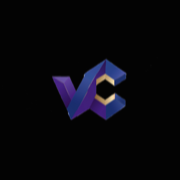
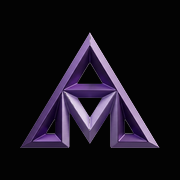
Rebrand to AutoMesh Works
Name, descriptions and metadata move from the personal wordmark to the
company; Karman Singh Talwar stays on as the founder attribution in the
About card. New AM logo across navbar, footer, about and the favicons.
Contact details updated to the Sunforest Drive address and the two
current numbers.

Design, layout, type, colours and behaviour are untouched — the only
style change is the logo's intrinsic width/height hints, which follow
the new mark's aspect ratio so it still reserves the right space.

Changed region(s): [[0.1111, 0.1667, 0.8889, 0.8333]]

diff --git a/src/app/layout.tsx b/src/app/layout.tsx
@@ -12,23 +12,23 @@ const plusJakartaSans = Plus_Jakarta_Sans({
 });
 
 export const metadata: Metadata = {
-  title: "Karman Singh Talwar | Software · AI · Systems",
+  title: "AutoMesh Works | Software · AI · Systems",
   description:
-    "We build the digital systems behind modern businesses — software, AI, mobile apps, web applications and cloud infrastructure, designed and connected around how your business actually works.",
+    "AutoMesh Works builds the digital systems behind modern businesses — custom software, AI and automation, AI agents, web and mobile applications and cloud infrastructure, designed and connected around how your business actually works.",
   keywords:
-    "software development, AI systems, AI agents, automation, web applications, mobile apps, cloud infrastructure, custom software, full stack development, Next.js, founder-led studio, Karman Singh Talwar",
+    "AutoMesh Works, software development, AI systems, AI agents, automation, web applications, mobile apps, cloud infrastructure, custom software, full stack development, Next.js, founder-led studio, Karman Singh Talwar",
   openGraph: {
-    title: "Karman Singh Talwar | Software · AI · Systems",
+    title: "AutoMesh Works | Software · AI · Systems",
     description:
-      "Software, AI, mobile apps, web applications and cloud infrastructure — designed, built and connected around how your business actually works.",
+      "AutoMesh Works — software, AI, mobile apps, web applications and cloud infrastructure, designed, built and connected around how your business actually works.",
     type: "website",
-    siteName: "Karman Singh Talwar",
+    siteName: "AutoMesh Works",
   },
   twitter: {
     card: "summary_large_image",
-    title: "Karman Singh Talwar | Software · AI · Systems",
+    title: "AutoMesh Works | Software · AI · Systems",
     description:
-      "We build the digital systems behind modern businesses. Founder-led. Transparent scope and pricing.",
+      "AutoMesh Works builds the digital systems behind modern businesses. Founder-led. Transparent scope and pricing.",
   },
 };
 

diff --git a/src/components/About.tsx b/src/components/About.tsx
@@ -68,7 +68,10 @@ export default function About() {
                     />
                     <div>
                       <h3 className="text-base font-black text-foreground leading-tight">{CONTACT.name}</h3>
-                      <span className="text-[9px] font-mono font-bold tracking-[0.2em] uppercase text-accent-purple">
+                      <span className="block text-[9px] font-mono font-bold tracking-[0.2em] uppercase text-accent-purple">
+                        {`By ${CONTACT.founder}`}
+                      </span>
+                      <span className="block text-[9px] font-mono font-bold tracking-[0.2em] uppercase text-luxury-muted/70 mt-0.5">
                         Founder · Engineer
                       </span>
                     </div>
@@ -101,7 +104,8 @@ export default function About() {
           <div className="lg:col-span-7">
             <Reveal variant="right">
               <p className="text-luxury-muted text-sm sm:text-base leading-relaxed mb-4">
-                A founder-led studio, run by <span className="text-foreground font-semibold">{CONTACT.name}</span>.
+                <span className="text-foreground font-semibold">{CONTACT.name}</span> is a
+                founder-led studio, run by <span className="text-foreground font-semibold">{CONTACT.founder}</span>.
                 Not a chain of handovers — the person who understands the problem is the one who
                 designs the system and writes the code that runs it.
               </p>

diff --git a/src/components/Footer.tsx b/src/components/Footer.tsx
@@ -46,7 +46,7 @@ export default function Footer() {
                 src="/logo-mark.png"
                 alt=""
                 aria-hidden="true"
-                width={96}
+                width={39}
                 height={32}
                 className="h-8 w-auto object-contain theme-logo group-hover:scale-105 transition-transform duration-300"
               />
@@ -61,8 +61,9 @@ export default function Footer() {
             </div>
 
             <p className="text-luxury-muted/70 text-xs max-w-xs leading-relaxed mt-2 font-medium">
-              We build the digital systems behind modern businesses — software, AI, mobile,
-              web and cloud, designed around how the business actually works.
+              AutoMesh Works builds the digital systems behind modern businesses — software,
+              AI and automation, mobile, web and cloud, designed around how the business
+              actually works.
             </p>
 
             <div className="flex flex-col gap-1.5 mt-2 text-xs text-luxury-muted/70 font-mono">
@@ -70,6 +71,7 @@ export default function Footer() {
                 {CONTACT.email}
               </a>
               <span>{CONTACT.phone}</span>
+              <span>{CONTACT.altPhone}</span>
               <span>{CONTACT.location}</span>
             </div>
           </div>

diff --git a/src/components/Header.tsx b/src/components/Header.tsx
@@ -66,14 +66,14 @@ export default function Header() {
         >
           <img
             src="/logo-mark.png"
-            alt="Karman Singh Talwar"
-            width={108}
+            alt="AutoMesh Works"
+            width={44}
             height={36}
             className="h-9 w-auto object-contain group-hover:scale-105 transition-transform duration-300 theme-logo"
           />
           <span className="flex flex-col leading-none">
             <span className="font-extrabold text-[15px] sm:text-base tracking-tight bg-gradient-to-r from-foreground to-foreground/70 bg-clip-text text-transparent group-hover:to-foreground transition-all duration-300">
-              Karman Singh Talwar
+              AutoMesh Works
             </span>
             <span className="hidden sm:block text-[8px] font-bold tracking-[0.22em] uppercase text-luxury-muted/70 font-mono mt-1">
               Software <span className="text-accent-purple">·</span> AI <span className="text-accent-purple">·</span> Systems

diff --git a/src/lib/contact.ts b/src/lib/contact.ts
@@ -1,19 +1,21 @@
 /* Contact details — single source for the quote form and the footer. */
 
 export const CONTACT = {
-  name: "Karman Singh Talwar",
+  name: "AutoMesh Works",
+  founder: "Karman Singh Talwar",
   tagline: "Software · AI · Systems",
   email: "karmantalwar@gmail.com",
-  phone: "+91 8264386780",
-  phoneE164: "918264386780",
-  location: "Mumbai, India",
+  phone: "+1 (647) 762-8148",
+  phoneE164: "16477628148",
+  altPhone: "8264386780",
+  location: "154 Sunforest Drive",
   // TODO: replace with real profile URLs before launch.
   linkedin: "#",
   github: "#",
 } as const;
 
 export const WHATSAPP_URL = `https://wa.me/${CONTACT.phoneE164}?text=${encodeURIComponent(
-  "Hi Karman — I'd like a quote for a project."
+  "Hi AutoMesh Works — I'd like a quote for a project."
 )}`;
 
 export const MAILTO_URL = `mailto:${CONTACT.email}?subject=${encodeURIComponent("Project enquiry")}`;

diff --git a/src/components/QuoteForm.tsx b/src/components/QuoteForm.tsx
@@ -92,7 +92,7 @@ export default function QuoteForm() {
         body: JSON.stringify({
           access_key: WEB3FORMS_KEY,
           subject: `Quote request \u2014 ${formData.name} (${formData.projectType})`,
-          from_name: "Karman Singh Talwar — Website",
+          from_name: "AutoMesh Works — Website",
           replyto: formData.email,
           botcheck: isBot,
           Name: formData.name,
